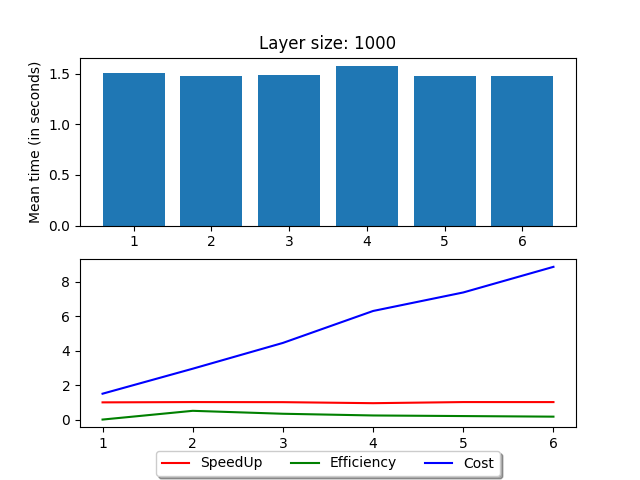
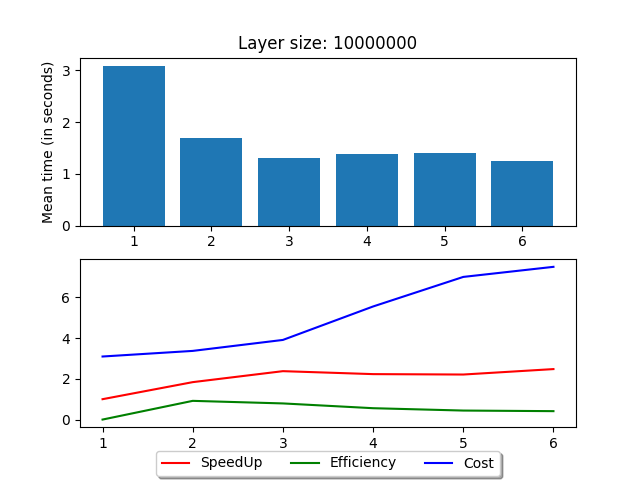
Estimating max and min distance where the energy_k is below threshold before calling update()

diff --git a/Src/energy_storms_omp.c b/Src/energy_storms_omp.c
@@ -14,13 +14,13 @@
  * This work is licensed under a Creative Commons Attribution-ShareAlike 4.0 International License.
  * https://creativecommons.org/licenses/by-sa/4.0/
  */
-#include<stdio.h>
-#include<stdlib.h>
+#include <stdio.h>
+#include <stdlib.h>
 #include <unistd.h>
-#include<math.h>
-#include<sys/time.h>
-#include<omp.h>
-#include<omp.h>
+#include <math.h>
+#include <sys/time.h>
+#include <omp.h>
+#include <assert.h>
 
 #define DEFAULT_COLOR   "\033[0m"
 #define RED             "\033[0;31m"
@@ -61,7 +61,7 @@ double cp_Wtime()
 typedef float energy_t;
 
 //#define THRESHOLD    0.001f
-#define THRESHOLD    50.0f
+#define THRESHOLD     0.001f
 
 /* Structure used to store data for one storm of particles */
 typedef struct
@@ -93,9 +93,12 @@ void update(energy_t *layer, int layer_size, int k, int pos, energy_t energy)
 	//printf("energy : %f\n", energy);
 	//printf("energy received: %f\n", energy_k);
 	/* 5. Do not add if its absolute value is lower than the threshold */
-	if (energy_k >= THRESHOLD / layer_size
-			|| energy_k <= -THRESHOLD / layer_size)
-		layer[k] = layer[k] + energy_k;
+	// if (energy_k >= THRESHOLD / layer_size
+	// 		|| energy_k <= -THRESHOLD / layer_size)
+
+	assert(energy_k >= THRESHOLD / layer_size || energy_k <= -THRESHOLD / layer_size);
+	
+	layer[k] = layer[k] + energy_k;
 
 }
 
@@ -104,7 +107,7 @@ void update(energy_t *layer, int layer_size, int k, int pos, energy_t energy)
 void debug_print(int layer_size, energy_t *layer, int *positions,
 		energy_t *maximum, int num_storms, Storm *storms)
 {
-	int i, k;
+	unsigned int i, k;
 
 	//https://www.lix.polytechnique.fr/~liberti/public/computing/prog/c/C/FUNCTIONS/format.html
 	int k_justify = (int) log10(layer_size) + 1;
@@ -117,22 +120,7 @@ void debug_print(int layer_size, energy_t *layer, int *positions,
 		{
 			/* Print the energy value of the current cell */
 			printf("%0*d | ", k_justify, k);
-			//TODO number particles
-			// {
-			//     int particles_hit = 0;
-			//     for(int j=0; i< num_storms; j++)
-			//     {
-			//         particles_hit += storms[j].posval[2*k];
-			//     }
-			//     if(particles_hit > 0)
-			//     {
-			//         printfColor(RED, "%d |", particles_hit)
-			//     }
-			//     else
-			//     {
-			//         printf("%d |", particles_hit);
-			//     }
-			// }
+
 			printf("%10.4f |", layer[k]);
 
 			/* Compute the number of characters.
@@ -212,6 +200,8 @@ Storm read_storm_file(char *fname)
 
 boolean csv = FALSE;
 
+short n_threads = 1;
+
 short processOptions(int argc, char *argv[])
 {
 	short optargc = 0;
@@ -232,7 +222,7 @@ short processOptions(int argc, char *argv[])
 		case 't':
 		case 'T':
 		{
-			int n_threads = atoi(optarg);
+			n_threads = atoi(optarg);
 
 			if (n_threads <= 0)
 			{
@@ -240,7 +230,7 @@ short processOptions(int argc, char *argv[])
 				exit(1);
 			}
 
-			omp_set_num_threads(n_threads);
+			//omp_set_num_threads(n_threads);
 			optargc++;
 			break;
 		}
@@ -292,6 +282,7 @@ int main(int argc, char *argv[])
 
 	/* 3. Allocate memory for the layer and initialize to zero */
 	energy_t *layer = (energy_t *) malloc(sizeof(energy_t) * layer_size);
+	energy_t *layer_copy = (energy_t *) malloc(sizeof(energy_t) * layer_size);
 
 	if (layer == NULL)
 	{
@@ -300,7 +291,7 @@ int main(int argc, char *argv[])
 	}
 	double initial = cp_Wtime();
 
-#pragma omp parallel for
+	#pragma omp parallel for
 	for (int kk = 0; kk < layer_size; kk++)
 	{
 		layer[kk] = 0.0f;
@@ -311,54 +302,66 @@ int main(int argc, char *argv[])
 	/* 4. Storms simulation */
 	for (i = 0; i < num_storms; i++)
 	{
-
 		/* 4.1. Add impacts energies to layer cells */
 		/* For each particle */
 		//O(p)
-		for (j = 0; j < storms[i].size; j++)
-		{
-			/* Get impact energy (expressed in thousandths) */
-			energy_t energy = (energy_t) storms[i].posval[j * 2 + 1] * 1000;
-			/* Get impact position */
-			int position = storms[i].posval[j * 2];
-
-			/* For each cell in the layer */
-			//atenuation = energy/layer_size/THRESHOLD
-			//atenuation*atenuation = distanceMax
-			//if(pos+distanceMax>layer_size) max = layer_size-1 else max = pos+distanceMax
-			//if(pos-distanceMax<0) min = 0 else min = pos-distanceMax
-			float atenuation = energy / THRESHOLD;
-			int distanceMax = (int) atenuation * atenuation;
-
-			if (distanceMax < 0)
-				distanceMax = -distanceMax;
-
-			distanceMax--;
-			int max = position + distanceMax, min = position - distanceMax;
-			if (max > layer_size || max < 0)
-				max = layer_size;
-			if (min > layer_size || min < 0)
-				min = 0;
-
-#pragma omp paralell for
-			for (k = min; k < max; k++)
+		
+			for (j = 0; j < storms[i].size; j++)
 			{
+				/* Get impact energy (expressed in thousandths) */
+				energy_t energy = (energy_t) storms[i].posval[j * 2 + 1] * 1000;
+				/* Get impact position */
+				int position = storms[i].posval[j * 2];
 
-				/* Update the energy value for the cell */
-				update(layer, layer_size, k, position, energy);
+				/* For each cell in the layer */
+				//atenuation = energy/layer_size/THRESHOLD
+				//atenuation*atenuation = distanceMax
+				//if(pos+distanceMax>layer_size) max = layer_size-1 else max = pos+distanceMax
+				//if(pos-distanceMax<0) min = 0 else min = pos-distanceMax
+				float atenuation = energy / THRESHOLD;
+				long distanceMax = (long) atenuation * atenuation;
+
+				assert(distanceMax >= 0);
+				// if (distanceMax < 0)
+				// 	distanceMax = -distanceMax;
+
+				distanceMax--;
+				long max = position + distanceMax, 
+				min = position - distanceMax;
+
+				assert(min <= layer_size);
+				assert(max >= 0);
+
+				if (max > layer_size)
+					max = layer_size;
+				if (min < 0)
+					min = 0;
+
+				#pragma omp parallel num_threads(n_threads)
+				{
+					//fprintf(stderr, "%d\n", omp_get_num_threads());
+					//fprintf(stderr, "%d\n", omp_get_num_teams());
+
+					#pragma omp for
+					for (k = min; k < max; k++)
+					{
+						/* Update the energy value for the cell */
+						update(layer, layer_size, k, position, energy);
+					}
+				}
 			}
-		}
-
 		//total = O(p*(l/t))
 		/* 4.2. Energy relaxation between storms */
 		/* 4.2.1. Copy values to the ancillary array */
 //make a lock to get all the ancillary cells of each thread
+
+		#ifdef NOOOO
 		int previousNeighbor = 0;
 		int LastNeighbor = 100;
 		/* 4.2.2. Update layer using the ancillary values.
 		 Skip updating the first and last positions */
 
-#pragma omp paralell for private(previousNeighbor)
+		#pragma omp paralell for private(previousNeighbor)
 		for (k = 1; k < layer_size - 1; k++)//TODO k not =1, depending on thread
 		//TODO nextPreviousNeighbor = layer[k-1] wouldn't work, because a thread might end before another starts
 		{
@@ -374,39 +377,39 @@ int main(int argc, char *argv[])
 				positions[i] = k;
 			}
 		}
+		#endif
 		//layer[k] = (previousNeighbor + layer[k] + layer[last) / 3;
 		/* 4.3. Locate the maximum value in the layer, and its position
 		 /*
 		 float *layer_copy = (float *) malloc(sizeof(float) * layer_size);
 		 for (k = 0; k < layer_size; k++)
 		 layer_copy[k] = 0.0f;
-//
-//		 /* 4.2. Energy relaxation between storms */
-//		/* 4.2.1. Copy values to the ancillary array */
-//		for (k = 0; k < layer_size; k++)
-//			layer_copy[k] = layer[k];
-//
-//		/* 4.2.2. Update layer using the ancillary values.
-//		 Skip updating the first and last positions */
-//		for (k = 1; k < layer_size - 1; k++)
-//			layer[k] = (layer_copy[k - 1] + layer_copy[k] + layer_copy[k + 1])
-//					/ 3;
-//
-//		/* 4.3. Locate the maximum value in the layer, and its position */
-//		for (k = 1; k < layer_size - 1; k++)
-//		{
-//			/* Check it only if it is a local maximum */
-//			if (layer[k] > layer[k - 1] && layer[k] > layer[k + 1])
-//			{
-//				if (layer[k] > maximum[i])
-//				{
-//					maximum[i] = layer[k];
-//					positions[i] = k;
-//				}
-//			}
-//		}
-//	}
-//	*/
+
+		 /* 4.2. Energy relaxation between storms */
+		/* 4.2.1. Copy values to the ancillary array */
+		for (k = 0; k < layer_size; k++)
+			layer_copy[k] = layer[k];
+
+		/* 4.2.2. Update layer using the ancillary values.
+		 Skip updating the first and last positions */
+		for (k = 1; k < layer_size - 1; k++)
+			layer[k] = (layer_copy[k - 1] + layer_copy[k] + layer_copy[k + 1])
+					/ 3;
+
+		/* 4.3. Locate the maximum value in the layer, and its position */
+		for (k = 1; k < layer_size - 1; k++)
+		{
+			/* Check it only if it is a local maximum */
+			if (layer[k] > layer[k - 1] && layer[k] > layer[k + 1])
+			{
+				if (layer[k] > maximum[i])
+				{
+					maximum[i] = layer[k];
+					positions[i] = k;
+				}
+			}
+		}
+	}
 	/* END: Do NOT optimize/parallelize the code below this point */
 
 	/* 5. End time measurement */
@@ -438,5 +441,4 @@ int main(int argc, char *argv[])
 
 	/* 9. Program ended successfully */
 	return 0;
-}
 }

diff --git a/Src/TestsScript.py b/Src/TestsScript.py
@@ -105,7 +105,7 @@ def get_test_files(regex_expr = "test_*"):
 
     return test_files
 
-def start_energy_storms_program(layer_size, test_files, n_threads = 1):
+def start_energy_storms_program(layer_size, test_files, n_threads = 1, program = "default"):
     def parse_results():
         output_arr = []
         with open(CSV_FILENAME, "r") as csv_file:
@@ -127,12 +127,16 @@ def start_energy_storms_program(layer_size, test_files, n_threads = 1):
 
     proc = None
 
-    if(n_threads == 1):
-        proc = subprocess.run([ENERGY_STORMS_SEQ_EXEC, "-c", CSV_FILENAME, 
-                        str(layer_size)] + test_files)
+    if(program == "default"):
+        if(n_threads == 1):
+            proc = subprocess.run([ENERGY_STORMS_SEQ_EXEC, "-c", CSV_FILENAME, 
+                            str(layer_size)] + test_files)
+        else:
+            proc = subprocess.run([ENERGY_STORMS_OMP_EXEC, "-c", CSV_FILENAME, 
+                            "-t", str(n_threads), str(layer_size)] + test_files)
     else:
-        proc = subprocess.run([ENERGY_STORMS_OMP_EXEC, "-c", CSV_FILENAME, 
-                        "-t", str(n_threads), str(layer_size)] + test_files)
+        proc = subprocess.run([program, "-c", CSV_FILENAME, 
+                            "-t", str(n_threads), str(layer_size)] + test_files)
 
     if proc.returncode != 0:
         print("\033[0;31mError while executing program! Aborting script...")
@@ -179,7 +183,7 @@ def plot_results_nthreads_time(plot_name, samples, layer_size):
     plt.savefig(PLOTS_FOLDER + plot_name)
     plt.close()
 
-def run_tests(layer_size, test_files, n_runs = 2):
+def run_tests(layer_size, test_files, n_runs = 2, program="default"):
 
     samples = []
 
@@ -203,9 +207,14 @@ def run_tests(layer_size, test_files, n_runs = 2):
 
 all_test_files = get_test_files()
 
-layer_size = 1000
+layer_size = 10000000
 
-samples = run_tests(layer_size, all_test_files, n_runs = 5)
+# samples = run_tests(layer_size, all_test_files, n_runs = 5)
+
+samples = run_tests(layer_size, 
+["test_files/test_01_a35_p7_w2",
+"test_files/test_01_a35_p5_w3",
+"test_files/test_01_a35_p8_w1"], n_runs = 5)
 
 plot_results_nthreads_time("plot_init_arrays_speedup", samples, layer_size)
 
